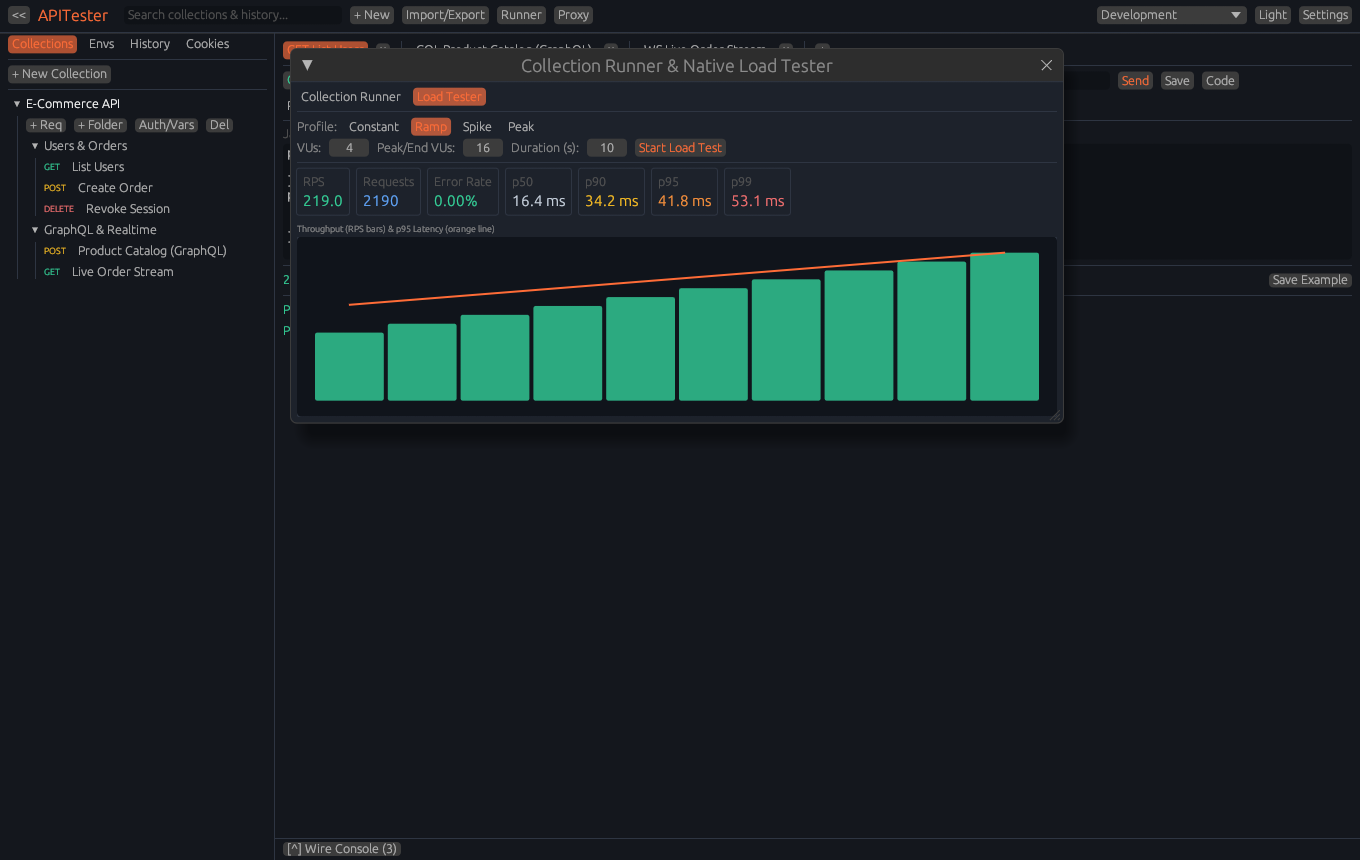
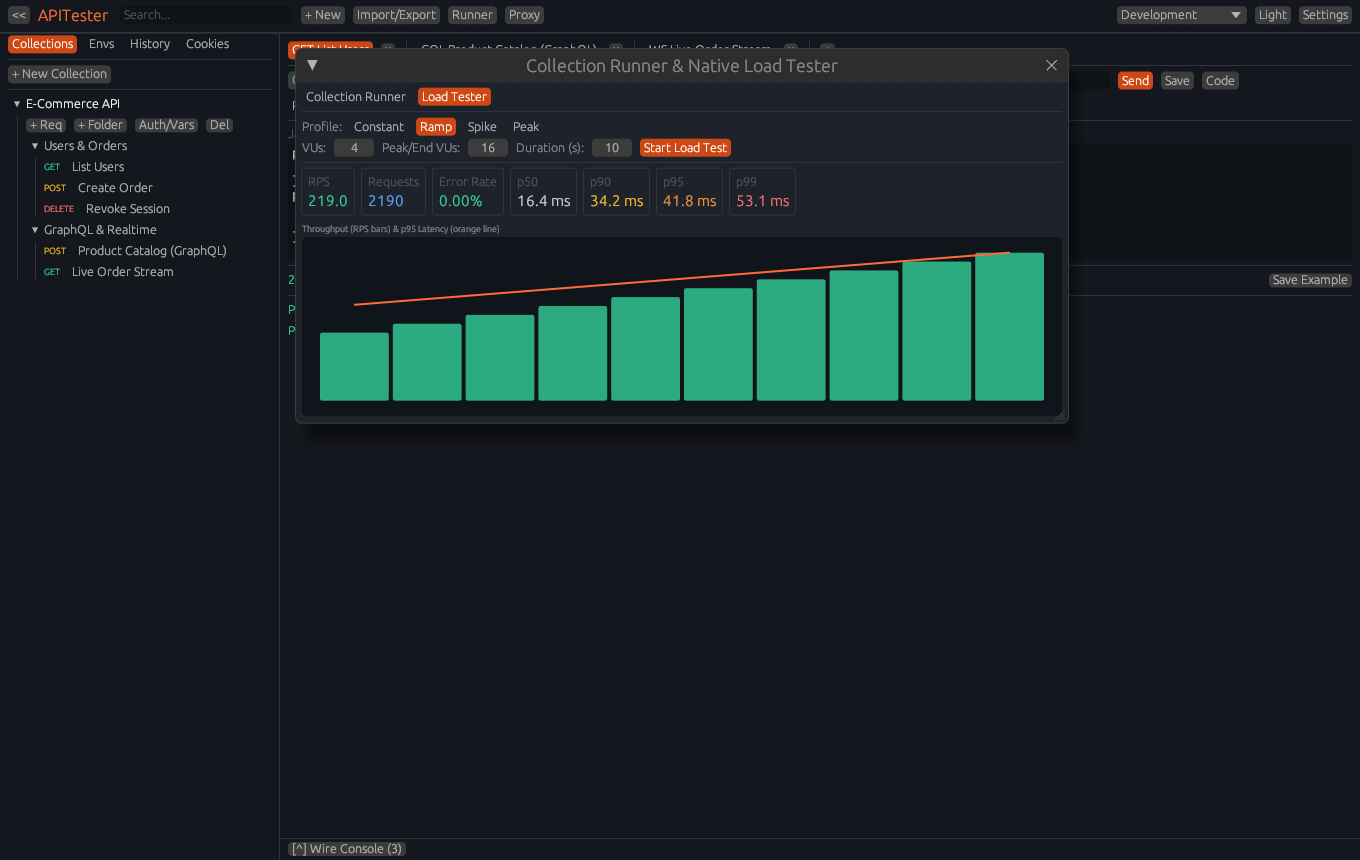
fix(ui): improve contrast on orange tabs/buttons and update screenshots

diff --git a/crates/ui/src/app.rs b/crates/ui/src/app.rs
@@ -32,7 +32,7 @@ use crate::state::{
     ImportFormat, LoadProfileKind, ModalState, RequestSubTab, ResponseBodyView, ResponseSubTab,
     RunnerModalTab, SidebarTab, UiMessage, WorkbenchTab,
 };
-use crate::theme::{apply_theme, highlight_body, method_color, status_color};
+use crate::theme::{apply_theme, highlight_body, method_color, status_color, ACCENT_PRIMARY};
 use crate::widgets::auth_editor::auth_editor_ui;
 use crate::widgets::kv_table::{form_data_table_ui, kv_table_ui, variables_table_ui};
 use crate::widgets::modals::render_modals;
@@ -615,11 +615,11 @@ impl ApiTesterApp {
                         .color(Color32::from_rgb(255, 108, 55)),
                 );
 
-                ui.add_space(8.0);
+                ui.add_space(4.0);
                 ui.add(
                     egui::TextEdit::singleline(&mut self.search_query)
-                        .hint_text("Search collections & history...")
-                        .desired_width(210.0),
+                        .hint_text("Search...")
+                        .desired_width(165.0),
                 );
 
                 ui.menu_button("+ New", |ui| {
@@ -717,7 +717,7 @@ impl ApiTesterApp {
                         .unwrap_or("No Environment");
 
                     ComboBox::from_id_salt("active_env_combo")
-                        .width(150.0)
+                        .width(130.0)
                         .selected_text(active_env_name)
                         .show_ui(ui, |ui| {
                             if ui
@@ -749,8 +749,8 @@ impl ApiTesterApp {
             return;
         }
         SidePanel::left("sidebar")
-            .default_width(275.0)
-            .min_width(210.0)
+            .default_width(280.0)
+            .min_width(240.0)
             .show(ctx, |ui| {
                 ui.horizontal(|ui| {
                     ui.selectable_value(
@@ -1040,7 +1040,12 @@ impl ApiTesterApp {
                         ProtocolConfig::Sse { .. } => "SSE",
                     };
                     let dirty_mark = if tab.dirty { " *" } else { "" };
-                    let label = format!("{badge} {}{dirty_mark}", tab.title);
+                    let label_text = format!("{badge} {}{dirty_mark}", tab.title);
+                    let label = if selected {
+                        RichText::new(label_text).strong().color(Color32::WHITE)
+                    } else {
+                        RichText::new(label_text)
+                    };
                     if ui.selectable_label(selected, label).clicked() {
                         self.active_tab = idx;
                     }
@@ -1150,10 +1155,9 @@ impl ApiTesterApp {
                         tab.in_flight = false;
                     }
                 } else if ui
-                    .button(
-                        RichText::new("Send")
-                            .strong()
-                            .color(Color32::from_rgb(255, 108, 55)),
+                    .add(
+                        egui::Button::new(RichText::new("Send").strong().color(Color32::WHITE))
+                            .fill(ACCENT_PRIMARY),
                     )
                     .clicked()
                 {

diff --git a/crates/ui/src/theme.rs b/crates/ui/src/theme.rs
@@ -2,6 +2,9 @@ use apitester_core::models::{HttpMethod, ThemeMode};
 use egui::text::LayoutJob;
 use egui::{Color32, FontId, Rounding, Stroke, TextFormat, Visuals};
 
+/// High-contrast burnt-orange primary accent (`#CC4814`, WCAG AA >= 5.1:1 with pure white).
+pub const ACCENT_PRIMARY: Color32 = Color32::from_rgb(204, 72, 20);
+
 /// Semantic accent palette shared across components.
 pub struct Palette {
     pub bg_panel: Color32,
@@ -71,8 +74,8 @@ pub fn apply_theme(ctx: &egui::Context, mode: ThemeMode) {
     visuals.widgets.inactive.rounding = Rounding::same(4.0);
     visuals.widgets.hovered.rounding = Rounding::same(4.0);
     visuals.widgets.active.rounding = Rounding::same(4.0);
-    visuals.selection.bg_fill = pal.accent.linear_multiply(if is_dark { 0.35 } else { 0.2 });
-    visuals.selection.stroke = Stroke::new(1.0_f32, pal.accent);
+    visuals.selection.bg_fill = ACCENT_PRIMARY;
+    visuals.selection.stroke = Stroke::new(1.0_f32, Color32::WHITE);
 
     ctx.set_visuals(visuals);
 }

diff --git a/crates/ui/src/widgets/modals.rs b/crates/ui/src/widgets/modals.rs
@@ -632,10 +632,13 @@ fn render_load_tester_tab(ui: &mut egui::Ui, app: &mut ApiTesterApp) {
             }
             ui.spinner();
         } else if ui
-            .button(
-                RichText::new("Start Load Test")
-                    .strong()
-                    .color(Color32::from_rgb(255, 108, 55)),
+            .add(
+                egui::Button::new(
+                    RichText::new("Start Load Test")
+                        .strong()
+                        .color(Color32::WHITE),
+                )
+                .fill(crate::theme::ACCENT_PRIMARY),
             )
             .clicked()
         {
